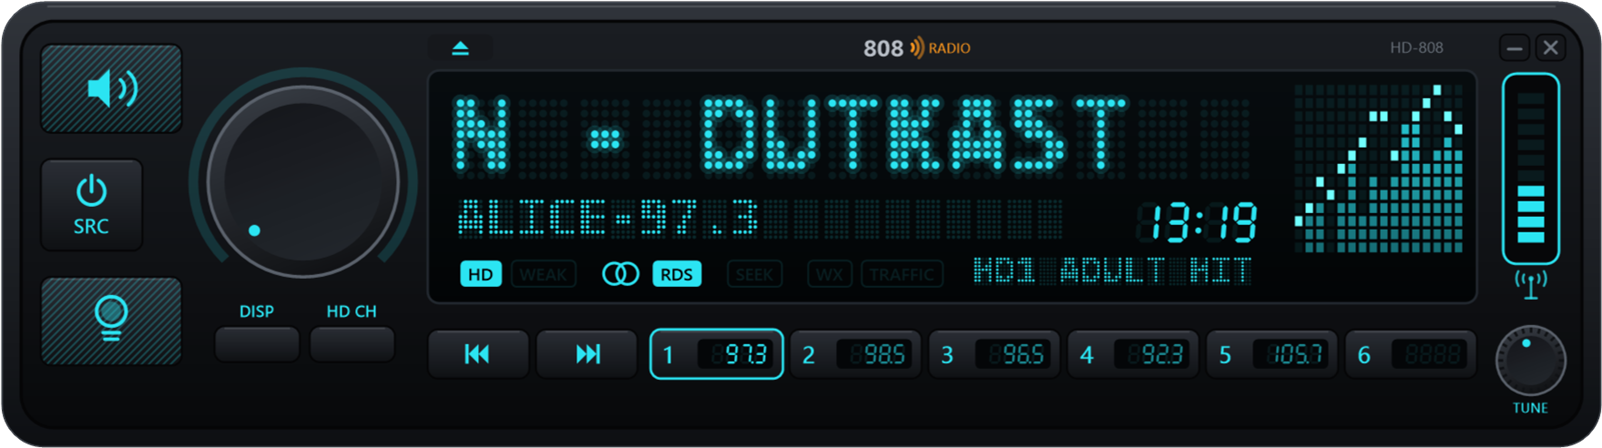
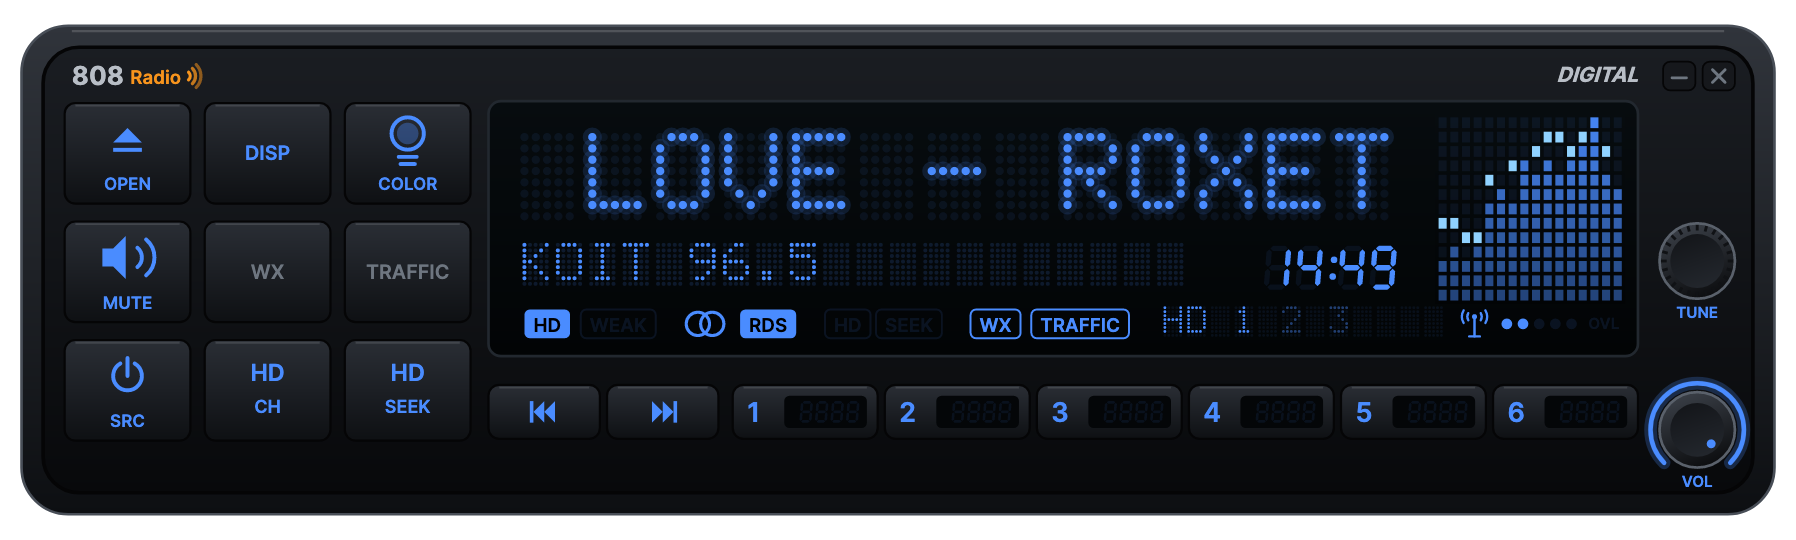
Version 0.7.0: weather map on Windows and offline, station data services, HD-only seek, new faceplate layout
Changelog entry, release notes with screenshots (docs/releases/0.7.0.md), the README brought up to date with new
screenshots from the live radio and the weather map.

diff --git a/README.md b/README.md
@@ -10,8 +10,9 @@
 art, multicast channels (HD1–HD8), weather and traffic maps, blended with the analog signal like a real HD receiver.
 It finds the best gain for each station by itself and corrects the dongle's frequency error automatically.
 
-Flip the faceplate down (the ▲ key) and there's an instrument panel behind it, drawn on the GPU at your display's
-refresh rate: spectrum and waterfall with click-to-tune, the FM multiplex, and live signal statistics.
+Press **OPEN** and the faceplate flips down to an instrument panel behind it, drawn at your display's refresh rate:
+spectrum and waterfall with click-to-tune, the FM multiplex, and live signal statistics. Tune a station that sends
+the HD weather service and **WX** opens its radar over a street map, which is cached so it works offline too.
 
 ![The instrument panel behind the faceplate](docs/images/808radio-open.png)
 
@@ -36,7 +37,7 @@ for building and status. No driver is needed for a USB dongle on macOS.
   *Bulk-In, Interface (Interface 0)*, select *WinUSB*, *Replace Driver*. If SDR# or another SDR program already works
   with the dongle, this is done.
 - An FM antenna. Only one program can use the dongle at a time, so close SDR# etc. first.
-- Windows 10 or 11, x64.
+- Windows 10 or 11 (x64), or macOS on Apple Silicon.
 
 **Or a network dongle:** plug the dongle into a Raspberry Pi near the antenna, run the standard `rtl_tcp` server there
 (one-line setup script); 808 Radio finds it on the network by itself (mDNS) and lists it under *Source*. See
@@ -56,9 +57,9 @@ anywhere, though the tuning grid, de-emphasis and program types are US defaults 
 | **SRC** | HD (automatic blend) or analog FM only (A) |
 | **HD CH** | next HD program: HD1, HD2 … (H); or click a number in the display's `HD 1 2 3` |
 | **DISP** | what the two display lines show: song / station, station / song, station / genre, artist / title, frequency / station (D) |
-| **Bulb key** | illumination color (C): cyan, amber, green, red, blue, white |
+| **COLOR** | illumination color (C): cyan, amber, green, red, blue, white |
 | **OPEN** | flip the faceplate down to the instrument panel (O) |
-| **WX** / **TRAFFIC** | the weather radar and traffic maps, when the station sends them (the keys light up as described below) |
+| **WX** / **TRAFFIC** | the weather radar (over a street map) and the traffic mosaic, when the station sends them (the keys light up as described below) |
 | **Right-click** | source (USB or network dongle), gain, frequency correction, antenna power (bias-tee), album art, panel frame rate, always on top, … |
 
 Drag the faceplate to move it; drag its edges to resize. The display has a large dot-matrix line and a small one with
@@ -67,8 +68,8 @@ frequency / station; long text scrolls). Below them is a row of fixed status lig
 station's HD programs (`HD 1 2 3`: the one you're hearing is lit, the one you've chosen blinks while it locks in;
 choose with **HD CH** or click a number). The lights: **HD** (outlined: found; filled: you're hearing
 the digital audio), **WEAK** in red (HD found, with its station name and programs, but the signal is too poor to play
-its audio, so you hear the analog), the stereo rings, **RDS**, **SEEK** (**HD SEEK** when seek is set to stop only at
-HD stations, in the right-click menu), **WX** / **TRAFFIC** (the weather radar and traffic maps: dark on stations
+its audio, so you hear the analog), the stereo rings, **RDS**, **HD** **SEEK** (SEEK while seeking; both while an
+HD-only seek runs), **WX** / **TRAFFIC** (the weather radar and traffic maps: dark on stations
 that don't send them, blinking once the station's service guide says they're coming, lit when one has arrived; open
 them with the **WX** and **TRAFFIC** keys left of the display, or click the light). The preset you're on is outlined in
 the row of preset keys. The antenna with five dots at the right end of that row is the signal meter: the reception
@@ -78,10 +79,20 @@ The square at the right of the display shows the HD album art or station logo (c
 song and station), or else an old-school audio spectrum analyzer; right-click → *Album art on the display* to always
 have the analyzer.
 
-In the instrument panel, click a station in the spectrum or waterfall to tune it (the view slides it to the center),
-and scroll to step. **SPAN** switches between the dongle's full 1.5 MHz and the 744 kHz HD baseband.
+**The weather map.** Stations that carry the HD Radio traffic and weather service (a few per market) send a radar
+image with its map corners every few minutes, and nine traffic tiles. **WX** draws the radar over a street map of the
+same box (OpenStreetMap data from Swiftcamp's basemap archive), with the time it was received; **TRAFFIC** shows the
+tiles as a mosaic that fills in as they arrive. As soon as a station's weather box is known, the map tiles it needs
+are fetched and kept, so the map works without the internet afterwards; the archive is checked for updates daily.
 
-Settings are saved in `%APPDATA%\808Radio\settings.json`; errors go to `808Radio.log` in the same folder.
+![The weather radar over its street map](docs/images/808radio-weather.png)
+
+In the instrument panel, click a station in the spectrum or waterfall to tune it (the view slides it to the center),
+and scroll to step. **SPAN** switches between the dongle's full 1.5 MHz and the 744 kHz HD baseband. The HD RADIO
+section lists the data services the station advertises (e.g. `HERE images`).
+
+Settings are saved in `%APPDATA%\808Radio\settings.json` (`~/Library/Application Support/808Radio` on the Mac),
+with `808Radio.log` and the map cache (`maps/`) in the same folder.
 
 ## Features
 
@@ -97,10 +108,12 @@ Settings are saved in `%APPDATA%\808Radio\settings.json`; errors go to `808Radio
   (or stereo pilot SNR), with guards that drop the gain the moment the front end overloads.
 - **Automatic frequency correction**: a broadcaster's carrier is crystal-accurate, so the FM discriminator's average
   is the dongle's own tuning error; corrections of 1.5 ppm or more are applied and saved.
+- **Weather radar on a map**: the station's radar image over a street map of the same box, cached for use offline;
+  the station's service guide says up front whether it sends maps. **HD-only seek** skips analog-only stations.
 - **Network dongle**: the RTL-SDR can be on a Raspberry Pi by the antenna, running `rtl_tcp`; 808 Radio finds it on
   the network (mDNS) — see [docs/raspberry-pi.md](docs/raspberry-pi.md).
-- **Smooth instrument panel**: Direct2D on its own render thread, presented with the display (right-click → *Panel
-  frame rate*); GDI+ if there's no GPU.
+- **Smooth instrument panel**: on Windows, Direct2D on its own render thread, presented with the display (right-click
+  → *Panel frame rate*), GDI+ if there's no GPU; on the Mac, Avalonia's Skia compositor.
 
 ## How it works
 
@@ -117,13 +130,14 @@ timeline:
 | Stereo decoder ÷4 | 46,512 | pilot PLL, L−R demodulation, blend, de-emphasis |
 | Resampler | 48,000 | trimmed by a PI loop on the output buffer to absorb dongle/soundcard clock drift |
 
-Audio goes out through WASAPI and follows the Windows default device. nrsc5's HD stereo comes out mirrored relative to
+Audio goes out through WASAPI on Windows (following the default device) and CoreAudio (miniaudio) on the Mac. nrsc5's
+HD stereo comes out mirrored relative to
 the analog on every station tested (likely a parametric-stereo sign convention in its HDC decoder), so it's swapped
 back.
 
 ## Building from source
 
-Requirements (all free): the [.NET 9 SDK](https://dotnet.microsoft.com/download) (`winget install
+On the Mac, see [docs/mac-port.md](docs/mac-port.md). On Windows, requirements (all free): the [.NET 9 SDK](https://dotnet.microsoft.com/download) (`winget install
 Microsoft.DotNet.SDK.9`) and [MSYS2](https://www.msys2.org/) (`winget install MSYS2.MSYS2`) for the native libraries.
 
 ```
@@ -163,6 +177,9 @@ settings untouched, beside a normal copy) and writes paint timings per section.
 - [librtlsdr](https://gitea.osmocom.org/sdr/rtl-sdr) (osmocom) and [libusb](https://libusb.info/): dongle access
 - [NAudio](https://github.com/naudio/NAudio): WASAPI output
 - [Vortice.Windows](https://github.com/amerkoleci/Vortice.Windows): Direct2D on the GPU for the instrument panel
+- [Avalonia](https://avaloniaui.net/) and [miniaudio](https://miniaud.io/): the Mac app's UI and audio output
+- [Swiftcamp](https://swiftcamp.app/)'s basemap archive ([Protomaps](https://protomaps.com/) schema, © OpenStreetMap
+  contributors, ODbL): the street map under the weather radar
 - Sister project: [808 HD](https://github.com/mattackerman808/808-HD), an HD Radio plugin for SDR#
 
 ## License

diff --git a/docs/releases/0.7.0.md b/docs/releases/0.7.0.md
@@ -1,0 +1,59 @@
+# 808 Radio 0.7.0
+
+**An FM + HD Radio receiver for Windows and macOS with RTL-SDR dongles, styled as a car stereo.**
+
+![808 Radio](https://github.com/mattackerman808/808-Radio/raw/v0.7.0/docs/images/808radio.png)
+
+## What it is
+
+808 Radio turns a $30 RTL-SDR dongle into a proper radio: FM stereo with RDS, and **HD Radio** (NRSC-5) with album
+art, multicast channels (HD1–HD8), weather and traffic maps, blended with the analog signal like a real HD receiver.
+It finds the best gain for each station by itself and corrects the dongle's frequency error automatically.
+
+The dongle can be on the computer or on a Raspberry Pi near the antenna running the standard `rtl_tcp` server, which
+808 Radio finds on the network by itself.
+
+## How it works
+
+- **The receiver** is C#: the RTL-SDR's samples are filtered, demodulated to FM stereo with RDS, and the HD Radio
+  sidebands go to [nrsc5](https://github.com/theori-io/nrsc5) for decoding. The analog and digital audio are blended
+  the way a car receiver does it, so a weak HD station falls back to analog instead of dropping out.
+- **The faceplate** is a car stereo: a dot-matrix display, HD program keys, presets, a tuning knob with detents.
+  Press OPEN and it folds down to an instrument panel drawn at the display's refresh rate: spectrum and waterfall
+  with click-to-tune, the FM multiplex, and live receiver statistics.
+- **The weather map** is the station's own radar image (HD Radio's HERE image service) drawn over a street map of
+  the same box from OpenStreetMap data, cached so it works without the internet.
+- Windows builds use Windows Forms with Direct2D for the panel; macOS uses Avalonia. The receiver is the same code.
+
+![The instrument panel behind the faceplate](https://github.com/mattackerman808/808-Radio/raw/v0.7.0/docs/images/808radio-open.png)
+
+## What's new in 0.7.0
+
+- **The weather map on Windows.** The radar over the street map is on both platforms now; the map code is shared.
+- **The map works offline.** When a station's weather box becomes known, every map tile it could need is fetched
+  and kept, so the radar has its street map with no internet connection. The map archive is checked for updates
+  once a day; a failed fetch is retried every five minutes.
+- **The station tells you what it sends.** The HD decoder reads the station's Service Information Guide, so the WX
+  and TRAFFIC keys show at once whether a station sends maps: dark when it doesn't, lit when the first map is in,
+  and the display's lights blink in between while the first image assembles.
+- **HD-only seek.** The HD SEEK key (also in the right-click menu) makes seek skip analog-only stations: it waits a
+  few seconds on each for HD sync and moves on. The [HD][SEEK] lights in the display show it at work.
+- **A new faceplate layout.** Nine keys of one size in three rows left of the display, grouped by what they do:
+  OPEN, DISP, COLOR on top; MUTE, WX, TRAFFIC in the middle; SRC, HD CH, HD SEEK at the bottom next to the seek keys.
+  The tune knob sits above a volume knob of the same size in the corner. The signal meter is inside the display
+  now, an antenna with five dots and an OVL light that comes on red if the dongle overloads.
+
+![The weather radar over its street map](https://github.com/mattackerman808/808-Radio/raw/v0.7.0/docs/images/808radio-weather.png)
+
+Since 0.6.0 (Mac fixes released as 0.6.1): window resizing works on the Mac, the small dot matrix is crisp on
+non-Retina monitors, and the audio analyzer no longer shows through the open panel.
+
+## Download
+
+- **Windows 10/11 (x64)**: `808Radio-v0.7.0-win-x64.zip`. Unzip anywhere and run `808Radio.exe`. Self-contained:
+  no installer, no .NET to install. The dongle needs the WinUSB driver once (Zadig); see the README.
+- **macOS (Apple Silicon)**: `808Radio-v0.7.0-mac-arm64.zip`. Unzip and open `808 Radio.app`. Signed and notarized,
+  with the native libraries inside; a USB dongle needs no driver on macOS.
+
+Full details in [CHANGELOG.md](https://github.com/mattackerman808/808-Radio/blob/v0.7.0/CHANGELOG.md) and the
+[README](https://github.com/mattackerman808/808-Radio/blob/v0.7.0/README.md).

diff --git a/CHANGELOG.md b/CHANGELOG.md
@@ -1,5 +1,24 @@
 # Changelog
 
+## 0.7.0 (2026-10-03)
+
+- **The weather map on Windows.** The HD weather radar is drawn over a street map of the same box on both
+  platforms now; the map code (Swiftcamp's basemap archive, the vector tile decoder, the style) moved to the
+  shared project, with Avalonia and GDI+ each drawing it.
+- **The map works offline.** As soon as a station's weather box is known, every map tile it could need is
+  fetched and kept (a few dozen), so the radar has its street map without the internet. The archive is checked
+  for updates once a day; a failed fetch is retried every five minutes.
+- **The station tells you what it sends.** The HD decoder reads the Service Information Guide, so WX and TRAFFIC
+  show as soon as a station is tuned: dark where there are no maps, blinking in the display once the station
+  promises them, lit when the first one arrives (the panel lists the station's data services).
+- **HD-only seek.** The HD SEEK key (also in the menu): seek skips analog-only stations, waiting a few seconds on
+  each for HD sync. The display's [HD][SEEK] lights show it at work.
+- **A new faceplate layout.** Nine same-size keys left of the display in three rows: OPEN, DISP, COLOR / MUTE, WX,
+  TRAFFIC / SRC, HD CH, HD SEEK. The tune knob sits above a tune-sized volume knob in the corner. The signal
+  meter moved into the display as an antenna with five dots and an OVL light. The brand reads "808 Radio" at the
+  left and a DIGITAL badge sits at the right.
+- Development: `--mapsnap` fills the map cache like the app does.
+
 ## 0.6.1 (2026-10-03)
 
 - **Resizing works on the Mac.** Dragging the faceplate's edges did nothing: Avalonia's macOS backend has no
